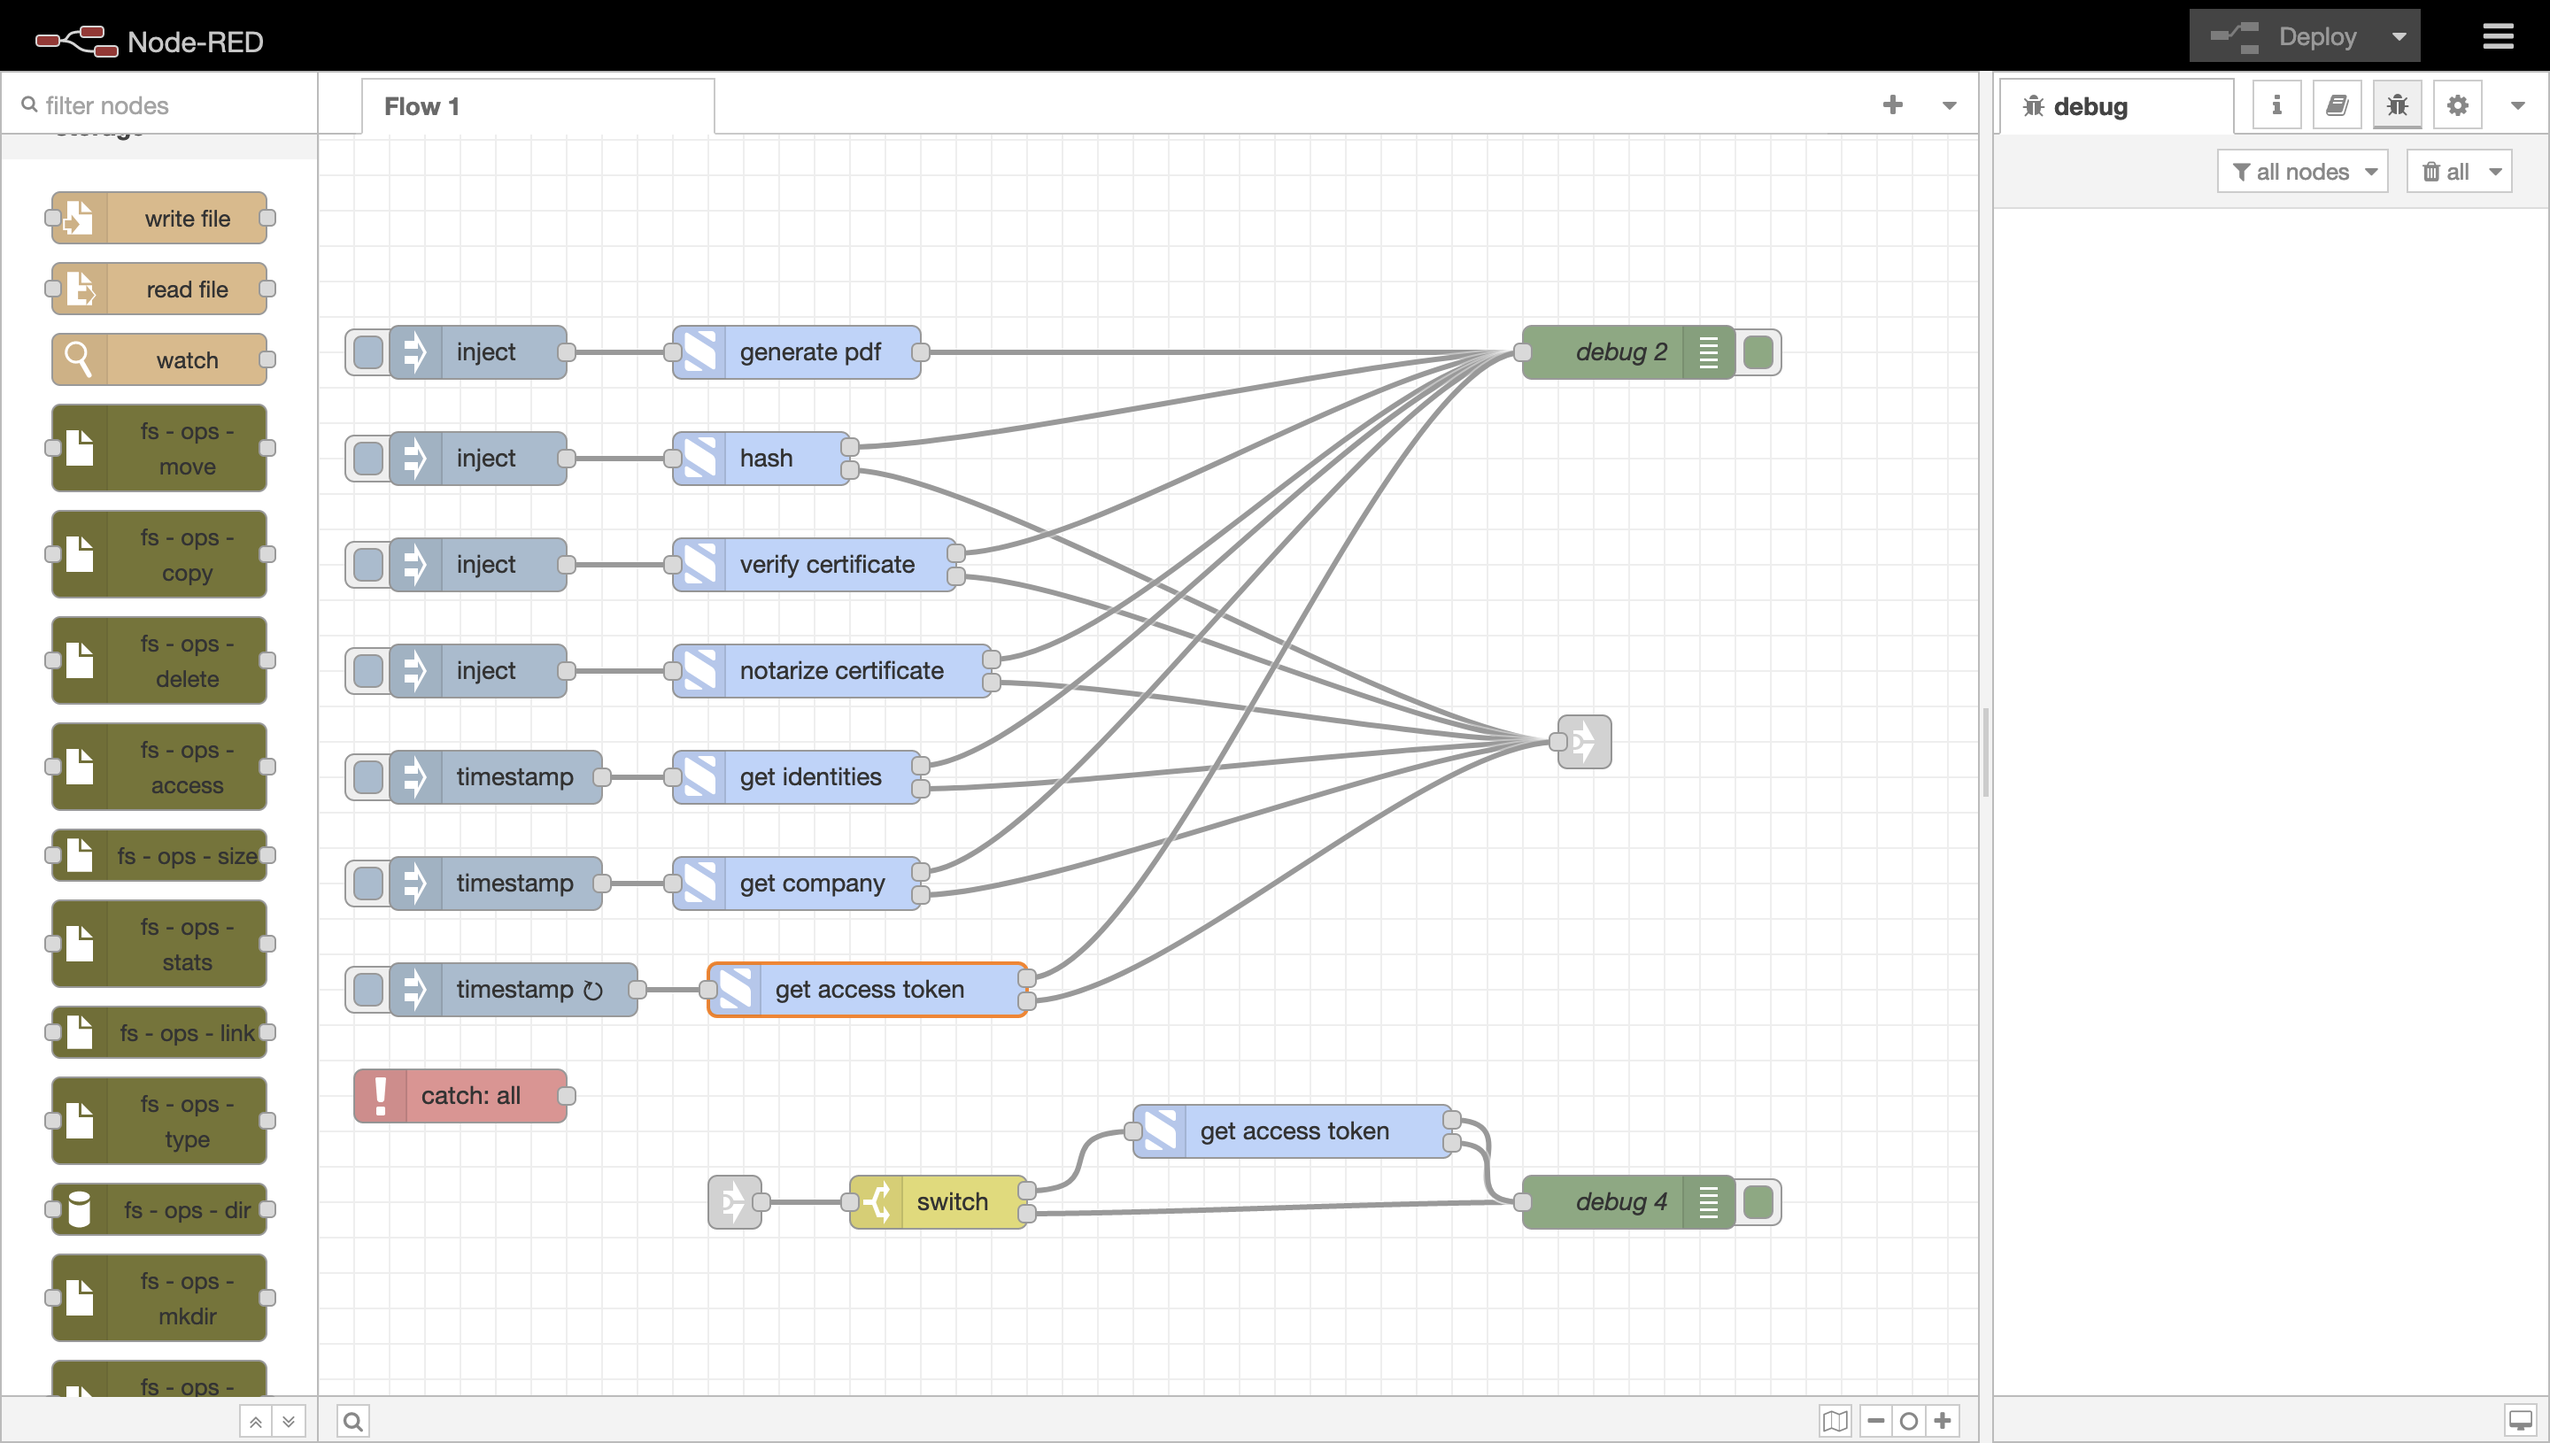
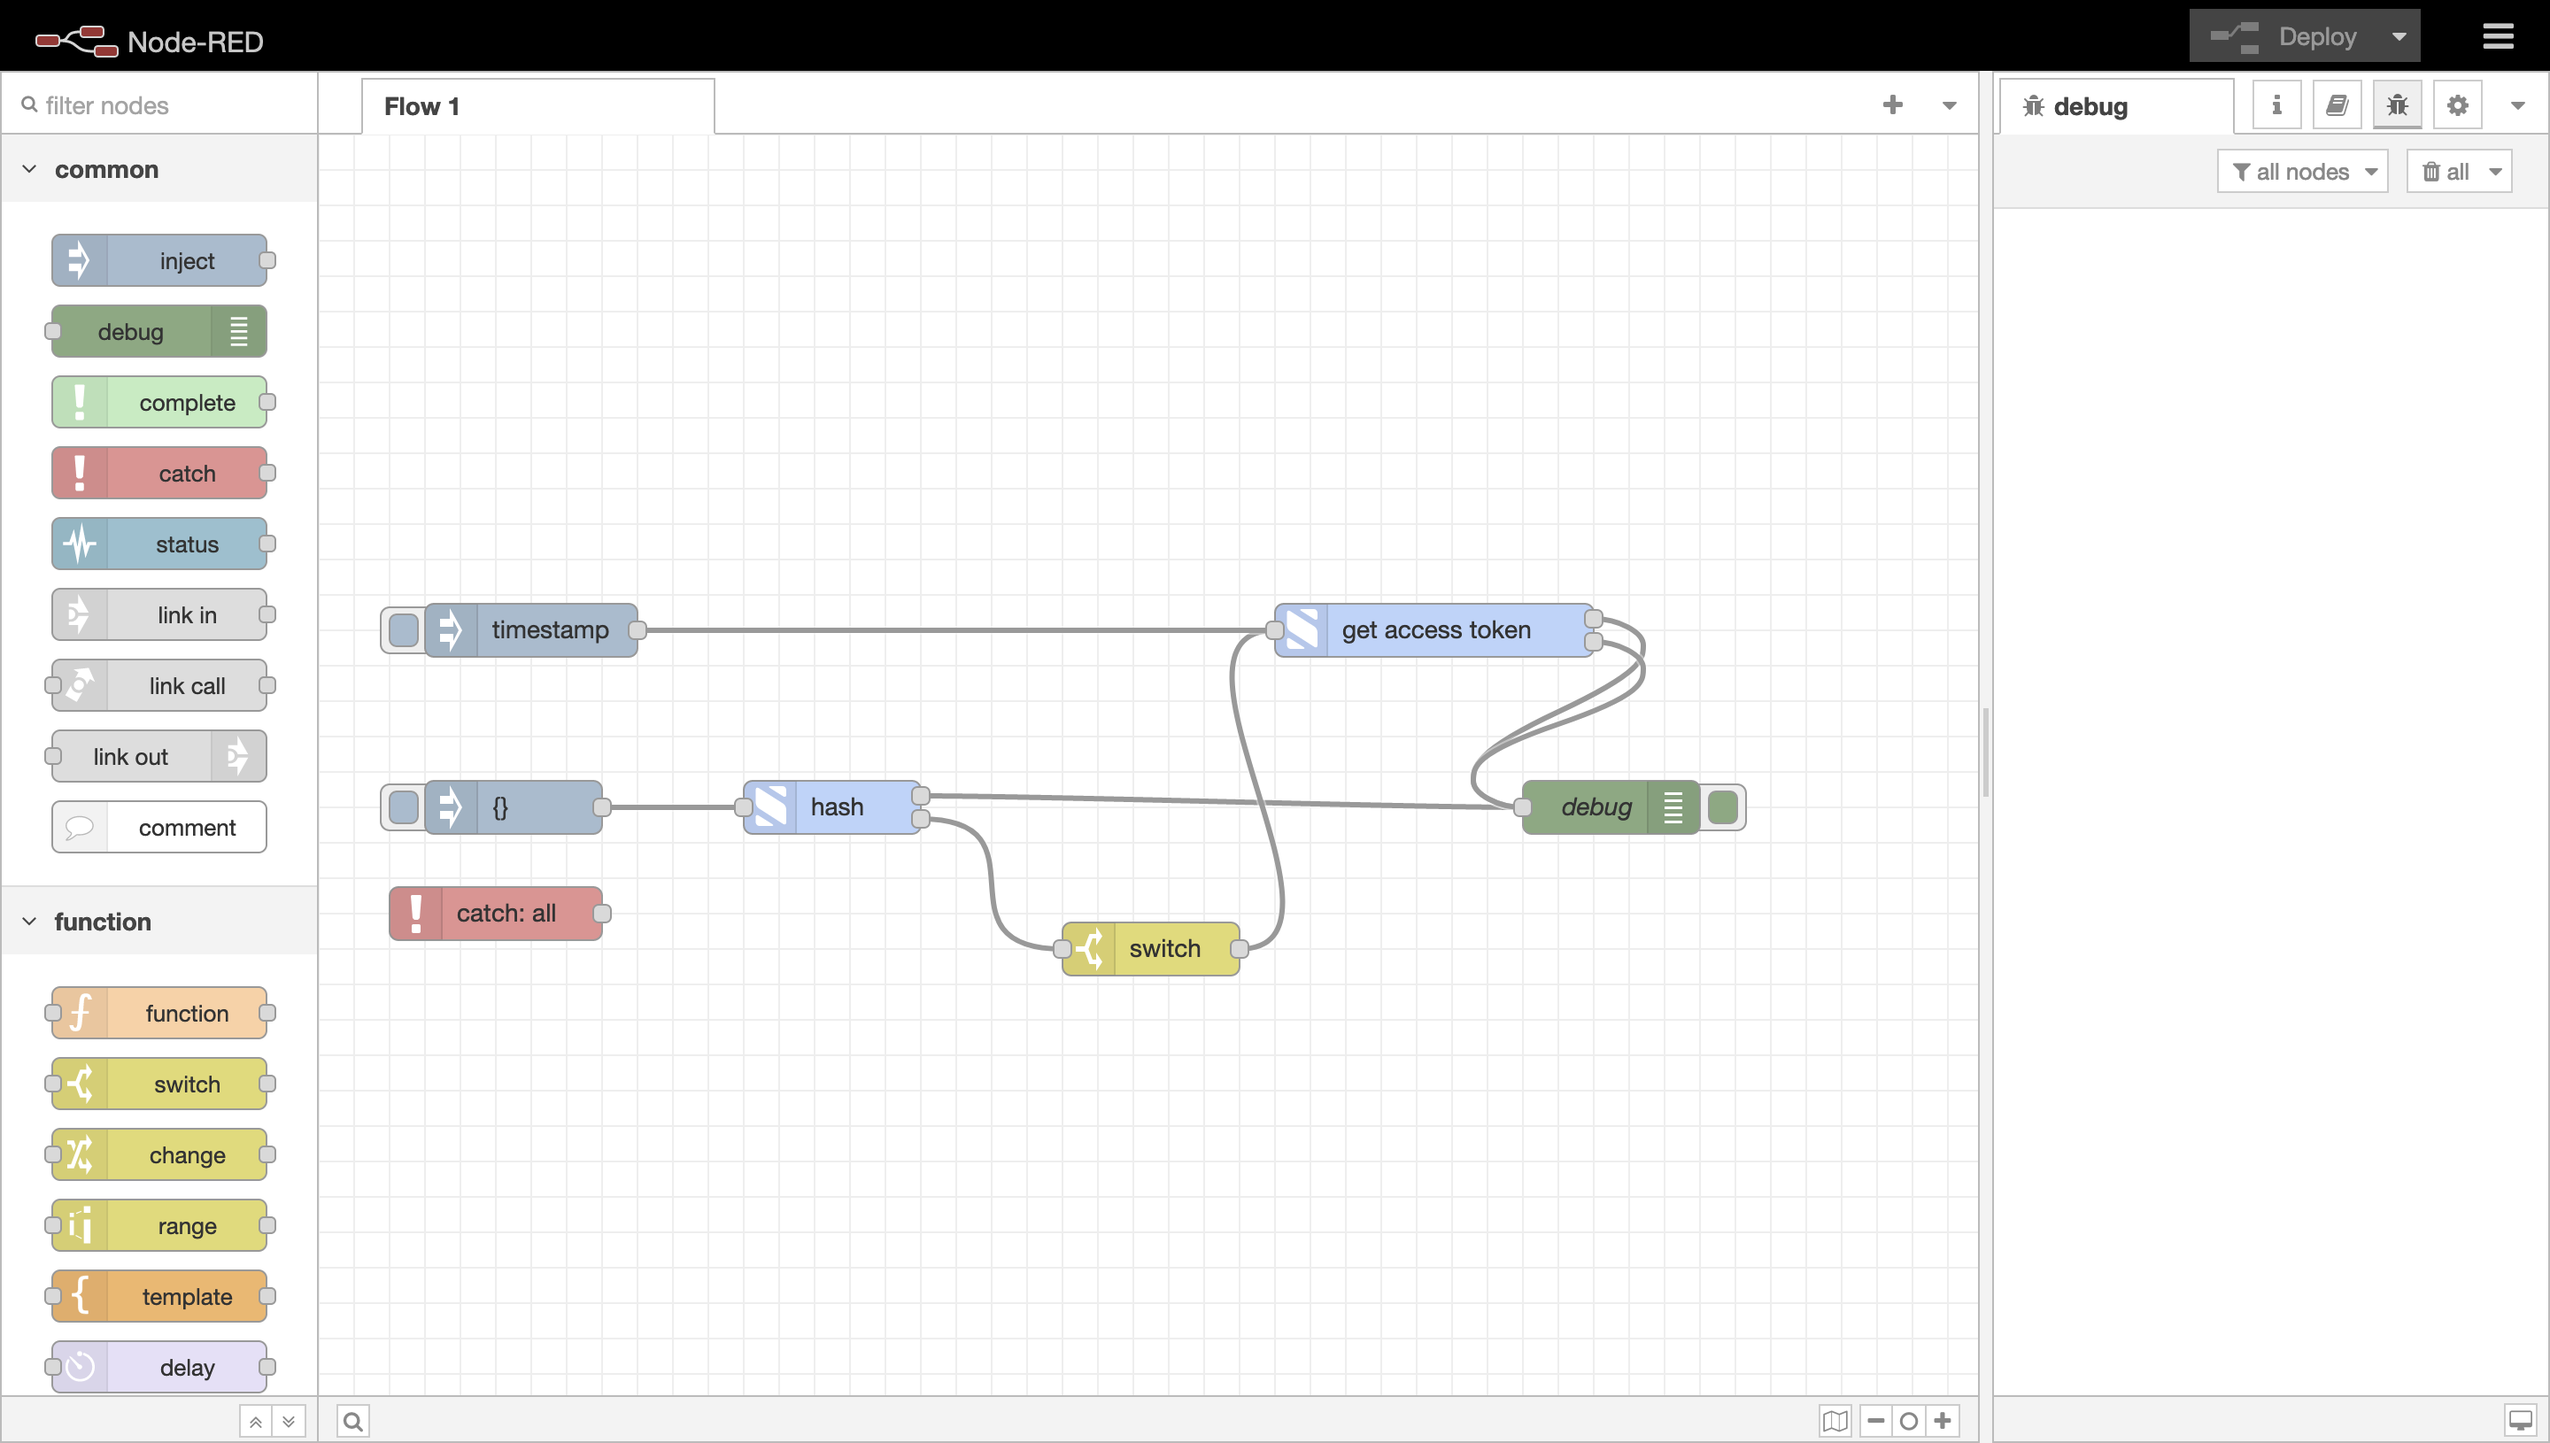
docs: simplify auth flow example, update screenshots

diff --git a/packages/node-red-s1seven-api/README.md b/packages/node-red-s1seven-api/README.md
@@ -20,7 +20,7 @@ Access tokens expire after 24 hours. There are several ways to automate the rene
 
 ![example](./images/example_auth.png)
 
-In the screenshot, each api node has 2 outputs, the first labeled `success`, and the second `fail`. The `fail` output is linked to a `switch` node. The `switch` looks at the property `msg.payload.statusCode` and checks to see if the code is `401`, which means the request is unauthorized. If the code is `401`, it sends the payload to the `get access token` node, which automatically request a new access token and makes available in the global context, along with the `mode`.
+In the screenshot, the `hash` node has 2 outputs, the first labeled `success`, and the second `fail`. The `fail` output is linked to a `switch` node. The `switch` looks at the property `msg.payload.statusCode` and checks to see if the code is `401`, which means the request is unauthorized. If the code is `401`, it sends the payload to the `get access token` node, which automatically requests a new access token and makes available in the global context, along with the `mode`.
 
 ![example](./images/switch.png)
 
@@ -61,14 +61,14 @@ A minimal example of the above workflow can be imported using the following JSON
                 "vt": "str"
             }
         ],
-        "repeat": "3600",
+        "repeat": "",
         "crontab": "",
         "once": false,
         "onceDelay": 0.1,
         "topic": "",
-        "payload": "",
-        "payloadType": "date",
-        "x": 130,
+        "payload": "{}",
+        "payloadType": "json",
+        "x": 110,
         "y": 380,
         "wires": [
             [
@@ -80,7 +80,7 @@ A minimal example of the above workflow can be imported using the following JSON
         "id": "6befa51db92df9f8",
         "type": "debug",
         "z": "155da1287ae6504d",
-        "name": "debug 3",
+        "name": "debug",
         "active": true,
         "tosidebar": true,
         "console": false,
@@ -89,7 +89,7 @@ A minimal example of the above workflow can be imported using the following JSON
         "targetType": "full",
         "statusVal": "",
         "statusType": "auto",
-        "x": 740,
+        "x": 730,
         "y": 380,
         "wires": []
     },
@@ -105,29 +105,20 @@ A minimal example of the above workflow can be imported using the following JSON
                 "t": "eq",
                 "v": "401",
                 "vt": "num"
-            },
-            {
-                "t": "eq",
-                "v": "429",
-                "vt": "num"
             }
         ],
         "checkall": "true",
         "repair": false,
-        "outputs": 2,
+        "outputs": 1,
         "x": 470,
         "y": 460,
         "wires": [
             [
                 "fd323fdf31455b44"
-            ],
-            [
-                "6befa51db92df9f8"
             ]
         ],
         "outputLabels": [
-            "401",
-            "429"
+            "401"
         ]
     },
     {
@@ -161,13 +152,40 @@ A minimal example of the above workflow can be imported using the following JSON
         ]
     },
     {
+        "id": "68825bef95c36270",
+        "type": "inject",
+        "z": "155da1287ae6504d",
+        "name": "",
+        "props": [
+            {
+                "p": "payload"
+            },
+            {
+                "p": "topic",
+                "vt": "str"
+            }
+        ],
+        "repeat": "",
+        "crontab": "",
+        "once": false,
+        "onceDelay": 0.1,
+        "topic": "",
+        "payload": "",
+        "payloadType": "date",
+        "x": 120,
+        "y": 280,
+        "wires": [
+            [
+                "fd323fdf31455b44"
+            ]
+        ]
+    },
+    {
         "id": "16bd3e4db46db980",
         "type": "api-config",
         "environment": "staging",
         "companyId": "",
         "name": "Staging",
-        "clientId": "",
-        "clientSecret": "",
         "apiVersion": "1"
     }
 ]
